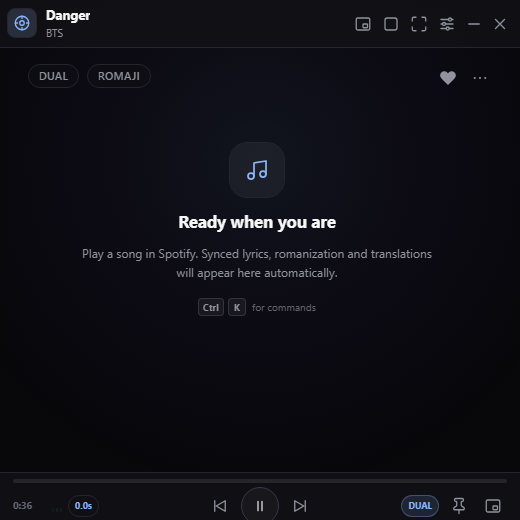
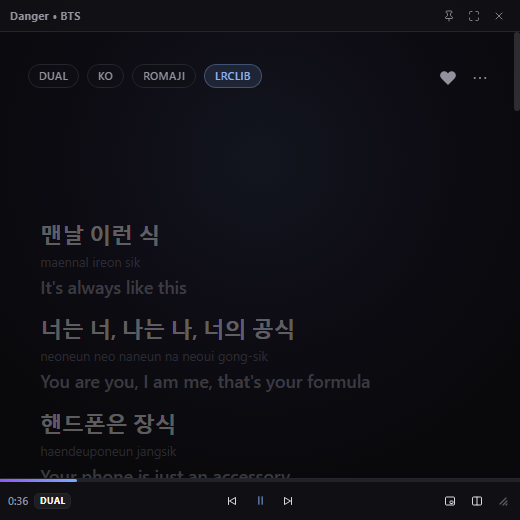
Fix lyrics display bug caused by missing providerBadge and ensure idleState hides when lyrics render

diff --git a/web/app.js b/web/app.js
@@ -1178,12 +1178,16 @@
     AppState.provider = String(provider || '').toUpperCase();
     AppState.isSynced = synced !== false;
     var showProvider = !!AppState.provider && AppState.provider !== 'UNSYNCED';
-    el.providerBadge.hidden = !showProvider;
-    el.providerBadge.textContent = AppState.provider;
-    el.providerBadge.title = AppState.provider ? 'Lyrics provider: ' + AppState.provider : '';
-    el.stageProvider.hidden = !showProvider;
-    el.stageProvider.textContent = AppState.provider;
-    el.syncBadge.hidden = AppState.isSynced;
+    if (el.providerBadge) {
+      el.providerBadge.hidden = !showProvider;
+      el.providerBadge.textContent = AppState.provider;
+      el.providerBadge.title = AppState.provider ? 'Lyrics provider: ' + AppState.provider : '';
+    }
+    if (el.stageProvider) {
+      el.stageProvider.hidden = !showProvider;
+      el.stageProvider.textContent = AppState.provider;
+    }
+    if (el.syncBadge) el.syncBadge.hidden = AppState.isSynced;
     el.body.classList.toggle('lyrics-static', !AppState.isSynced);
     el.body.dataset.lyricsSynced = AppState.isSynced ? 'true' : 'false';
   }
@@ -1269,6 +1273,9 @@
   }
 
   function renderLyricsList() {
+    hideSkeleton();
+    el.idleState.hidden = true;
+    el.noLyricsState.hidden = true;
     var fragment = document.createDocumentFragment();
     var isTransOnly = AppState.lyricViewMode === 'trans-only';
     AppState.lyrics.forEach(function (line, index) {

diff --git a/web/js/lyrics/render-lyrics.js b/web/js/lyrics/render-lyrics.js
@@ -50,12 +50,16 @@
     AppState.provider = String(provider || '').toUpperCase();
     AppState.isSynced = synced !== false;
     var showProvider = !!AppState.provider && AppState.provider !== 'UNSYNCED';
-    el.providerBadge.hidden = !showProvider;
-    el.providerBadge.textContent = AppState.provider;
-    el.providerBadge.title = AppState.provider ? 'Lyrics provider: ' + AppState.provider : '';
-    el.stageProvider.hidden = !showProvider;
-    el.stageProvider.textContent = AppState.provider;
-    el.syncBadge.hidden = AppState.isSynced;
+    if (el.providerBadge) {
+      el.providerBadge.hidden = !showProvider;
+      el.providerBadge.textContent = AppState.provider;
+      el.providerBadge.title = AppState.provider ? 'Lyrics provider: ' + AppState.provider : '';
+    }
+    if (el.stageProvider) {
+      el.stageProvider.hidden = !showProvider;
+      el.stageProvider.textContent = AppState.provider;
+    }
+    if (el.syncBadge) el.syncBadge.hidden = AppState.isSynced;
     el.body.classList.toggle('lyrics-static', !AppState.isSynced);
     el.body.dataset.lyricsSynced = AppState.isSynced ? 'true' : 'false';
   }
@@ -141,6 +145,9 @@
   }
 
   function renderLyricsList() {
+    hideSkeleton();
+    el.idleState.hidden = true;
+    el.noLyricsState.hidden = true;
     var fragment = document.createDocumentFragment();
     var isTransOnly = AppState.lyricViewMode === 'trans-only';
     AppState.lyrics.forEach(function (line, index) {

diff --git a/web/index.html b/web/index.html
@@ -153,6 +153,7 @@
       <span class="tag tag-view" id="viewModeBadge">DUAL</span>
       <span class="tag tag-lang" id="flagBadge" hidden></span>
       <span class="tag tag-romaji" id="romajiBadge" hidden>ROMAJI</span>
+      <span class="tag provider-badge" id="providerBadge" hidden></span>
       <span class="tag unsynced-badge" id="syncBadge" hidden>UNSYNCED</span>
       <span class="tag ghost-badge" id="ghostBadge" hidden>GHOST</span>
       <span class="tag timer-badge" id="sleepTimerBadge" tabindex="0" role="button" aria-label="Sleep timer active. Activate to cancel." hidden>
